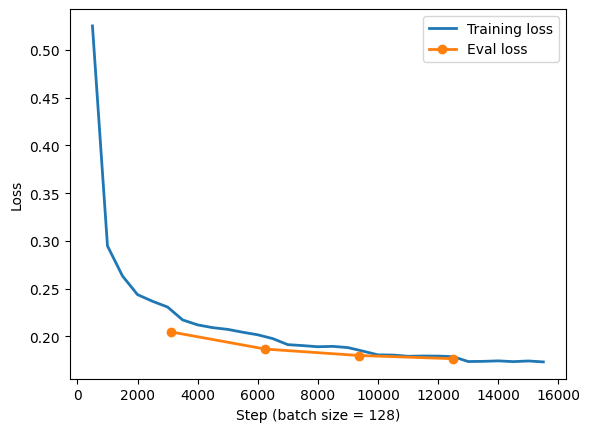
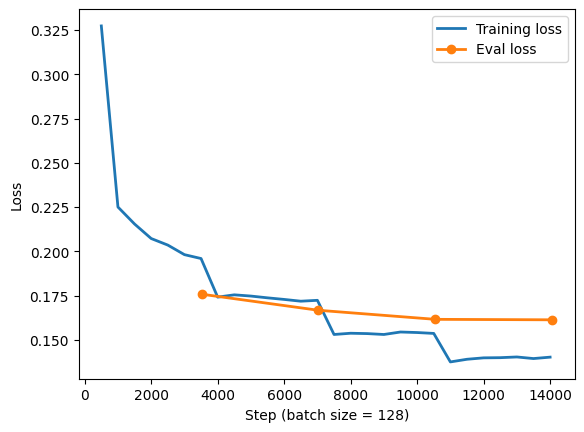
Updated BART fine tune and hyperparameter search

diff --git a/Projects/textsimplification_part3.html b/Projects/textsimplification_part3.html
@@ -114,18 +114,15 @@
 										compared to other languages like English, so the MCTS dataset is one of the best options available.
 									</p>
 
-									<h4>Fine-tuning Chinese BART</h4>
+									<h4>Preprocessing and tokenizing data</h4>
 									<p>Since our BART model is prepared on HuggingFace, we can use the HuggingFace transformers
-										package and framework for our fine-tuning. Let's start by preparing our data. Rather than 
-										input the MCTS data directly into the tokenizer, I want to add tag the sentence pairs with
-										some custom tokens for HSK vocabulary.
+										package and framework for our fine-tuning. Let's start by preparing our data. An important feature
+										to note in Chinese BART is that Chinese text does not contain spaces separating words, but the BART
+										tokenizer is expecting this -- so let's add spaces between words in each sentence with jieba:
 									</p>
 
 									<!--TODO: add discussion of HSK distribution here-->
-									
-									<p>Let's start by importing some base packages, loading our model, tokenizer, and
-										the HSK vocabulary dataset that I processed in Part 2:
-									</p>
+
 									<pre class="language-py"><code class="language-py">
 import numpy as np
 import jieba
@@ -137,37 +134,21 @@ from transformers import BertTokenizer, BartForConditionalGeneration
 tokenizer = BertTokenizer.from_pretrained("fnlp/bart-base-chinese")
 model = BartForConditionalGeneration.from_pretrained("fnlp/bart-base-chinese")
 
-with open("HSK_levels.pickle", 'rb') as handle:
-	HSK_dict = pickle.load(handle)
-									</code></pre>
-
-									<p>
-										Now define our preprocessing function to add HSK tokens for HSK levels 4, 5, 6, and 7-9:
-									</p>
-
-									<pre class="language-py"><code class="language-py">	
-def tokenize_with_HSK(sentence, HSK_dict):
-    split_sentence = jieba.lcut(sentence)
-    HSK_sentence = ""
-    for word in split_sentence:
-        score = HSK_dict.get(word, 0)
-        if score>3:
-            HSK_sentence += f"{word}[{score}]"
-        else:
-            HSK_sentence += f"{word}"
-    return HSK_sentence
-
-tokenizer.add_tokens(["[4]", "[5]", "[6]", "[7]"])
-model.resize_token_embeddings(len(tokenizer))
-
+def pre_tokenize(sentence):
+    return " ".join(jieba.lcut(sentence)) # add spaces to sentence for tokenizer
+	
 def preprocess_data(filename: str, start: int, stop: int):
-    lines_HSK = []
     with open(filename, encoding="utf8") as f:
         lines_orig = f.read().splitlines()
-        for line in lines_orig[start:stop]:
-            lines_HSK.append(tokenize_with_HSK(line, HSK_dict))
-    return lines_HSK
+    return [pre_tokenize(line) for line in lines_orig]
 									</code></pre>
+
+									<p><i>
+										Aside: in a previous version of this pipeline, I also attempted to add HSK tokens for HSK levels
+										4, 5, 6, 7-9 to each corresponding word in the text. The idea behind this is to train BART to substitute
+										or remove higher-level HSK words with simpler words. However, the MCTS pseudo dataset does not contain 
+										enough lexical simplification between the input and target sentences for this method to be effective.
+									</i></p>
 
 									<p>
 										Now we can load the pseudo data <a href="https://arxiv.org/abs/2306.02796" target="_blank">
@@ -180,7 +161,7 @@ def preprocess_data(filename: str, start: int, stop: int):
 									<pre class="language-py"><code class="language-py">
 start = 0
 stop = 500000
-split = 400000
+split = 450000
 
 lines_complex = preprocess_data('zh_selected.ori', start, stop)
 lines_simple = preprocess_data('zh_selected.sim', start, stop)
@@ -197,11 +178,11 @@ ds_eval = Dataset.from_dict(data_dict)
 									</p>
 
 									<pre class="language"><code class="language">
-ds_train['complex'][0]: '75公斤级比赛3个项目[4]的第一名均为中国选手李顺柱获得[4]。'
-(The first place in all three events[4] of the 75 kg competition was won[4] by China's Li Shunzhu.)
+ds_train['complex'][0]: '75 公斤 级 比赛 3 个 项目 的 第一名 均 为 中国 选手 李顺柱 获得 。'
+(The first place in all three events of the 75 kg competition was won by China's Li Shunzhu.)
 
-ds_train['simple'][0]: '中国选手李顺珠在75公斤级三个项目[4]中获得[4]第一名。'
-(China's Li Shunzhu won[4] first place in three events[4] in the 75 kg category.)
+ds_train['simple'][0]: '中国 选手 李顺珠 在 75 公斤 级 三 个 项目 中 获得 第一名。'
+(China's Li Shunzhu won first place in three events in the 75 kg category.)
 									</code></pre>
 
 									<p>Now, tokenize the preprocessed data. Here I use a max_length of 128, with
@@ -223,38 +204,132 @@ def batch_tokenize_data(data):
 tokenized_data_train = ds_train.map(batch_tokenize_data, batched=True)
 tokenized_data_eval = ds_eval.map(batch_tokenize_data, batched=True)
 									</code></pre>
-									
+									<h4>Hyperparameter search using Optuna</h4>
 									<p>
-										Now, set up the trainer and begin model fine-tuning with trainer.train():
+										To fine-tune this BART model, I have to make some decisions about the training parameters
+										like batch size, learning rate, etc. The best way to determine optimal hyperparameters is to
+										use optimized tuners like Optuna, which can automatically search over your defined 
+										hyperparameter space. Let's perform tuning using the search space defined below:
 									</p>
 
 									<pre class="language-py"><code class="language-py">
+# optuna fine-tuning
+import optuna
+import torch
+
+def search_space(trial):
+	# Define hyperparameter search space
+	return {
+		"learning_rate": trial.suggest_float("learning_rate", 1e-5, 5e-4, log=True),
+		"per_device_train_batch_size": trial.suggest_categorical("per_device_train_batch_size", [4, 8, 16]),
+		"num_train_epochs": trial.suggest_int("num_train_epochs", 3, 10),
+		"weight_decay": trial.suggest_float("weight_decay", 1e-5, 1e-2, log=True)
+	}
+
+# Define training arguments
+def model_init():
+	# Function to initialize the model for Trainer
+	from transformers import BartForConditionalGeneration
+	return BartForConditionalGeneration.from_pretrained("fnlp/bart-base-chinese", local_files_only=True)
+
+def compute_metrics(eval_preds):
+	prediction_tokens = eval_preds.predictions
+	prediction_text = [tokenizer.decode(tokens, skip_special_tokens=True) for tokens in prediction_tokens]
+
+	sari_score = sari.compute(
+			predictions=prediction_text, # model output
+			references=[[simple] for simple in tokenized_data_eval.select(range(5000))['simple']], # reference simple sentences
+			sources=tokenized_data_eval.select(range(5000))['complex'] # complex sentence
+		)
+	return {"sari": sari_score["sari"]}
+
+def preprocess_logits_for_metrics(logits, labels):
+		# This is a memory leak workaround to avoid storing too many tensors that are not needed
+		pred_ids = torch.argmax(logits[0], dim=-1)
+		return pred_ids
+
 training_args = TrainingArguments(
-    output_dir="./bart_simplification",
-    evaluation_strategy="epoch",
-    learning_rate=3e-5,
-    per_device_train_batch_size=128,
-    per_device_eval_batch_size=128,
-    eval_accumulation_steps = 1,
-    num_train_epochs=5,
-    weight_decay=0.01,
-    save_total_limit=2,
-    logging_steps=500
+	output_dir = "./bart_hypersearch",
+	eval_strategy = "epoch",
+	per_device_eval_batch_size = 1,
+	eval_accumulation_steps = 1, 
+	logging_dir = "./logs",
+	greater_is_better = True,
 )
 
 trainer = Trainer(
-    model = model,
-    args = training_args,
-    train_dataset = tokenized_data_train,
-    eval_dataset = tokenized_data_eval,
-    tokenizer = tokenizer
-)								
+	model_init=model_init,
+	args=training_args,
+	train_dataset=tokenized_data_train.select(range(15000)),  # Use a subset for quick tuning
+	eval_dataset=tokenized_data_eval.select(range(5000)),  
+	processing_class = tokenizer,
+	compute_metrics = compute_metrics,
+	preprocess_logits_for_metrics=preprocess_logits_for_metrics, # preprocesses before sending to compute_metrics()
+)
+
+# Run Optuna hyperparameter search
+best_trial = trainer.hyperparameter_search(
+	direction="maximize",  # For maximizing performance (adjust as needed)
+	hp_space=search_space,
+	n_trials=10  # Number of trials
+)
+
+print(best_trial)
+									</code></pre>
+
+									<p>
+										The hyperparameter search took an hour or two on an A100 GPU in Google Colab. Here were
+										the results of the best trial:
+									</p>
+
+									<pre class="language-py"><code class="language-py">
+BestRun(run_id='4', 
+		objective=33.830690227020675, 
+		hyperparameters={'learning_rate': 0.00010879820645860841, 
+						'per_device_train_batch_size': 128, 
+						'num_train_epochs': 9, 
+						'weight_decay': 0.001750272177978174}, 
+		run_summary=None)
+									</code></pre>
+
+									<h4>Fine-tuning BART with final parameters</h4>
+									
+									<p>
+										Now, set up the trainer using the final params and begin model fine-tuning with trainer.train():
+									</p>
+
+									<pre class="language-py"><code class="language-py">
+best_params = best_trial.hyperparameters
+training_args = TrainingArguments(
+	output_dir = "./bart_simplification",
+	eval_strategy = "epoch",
+	save_strategy = "epoch",
+	learning_rate = best_params["learning_rate"],
+	per_device_train_batch_size = best_params["per_device_train_batch_size"],
+	num_train_epochs = best_params["num_train_epochs"],
+	weight_decay = best_params["weight_decay"],
+	eval_accumulation_steps = 1,
+	per_device_eval_batch_size = 1,
+	logging_dir = "./logs",
+	logging_steps = 500,
+	greater_is_better = True, # maximize SARI
+)
+
+trainer = Trainer(
+	model = model,
+	args = training_args,
+	train_dataset = tokenized_data_train,
+	eval_dataset = tokenized_data_eval,
+	processing_class = tokenizer,
+	compute_metrics = compute_metrics,
+	preprocess_logits_for_metrics = preprocess_logits_for_metrics,
+)
 
 trainer.train()
 									</code></pre>
 
 									<p>
-										I used Google Colab with a A100 GPU to perform the training step. Let's look at the loss during training:
+										I used the same A100 GPU to perform the training step. Let's look at the loss during training:
 									</p>
 
 									<div class="container">
@@ -263,21 +338,21 @@ trainer.train()
 									</div>
 
 									<p>
-										Five epochs looks like a good stopping point, as the validation loss is leveling off and I 
-										want to avoid overfitting. Now that we have a trained model, let's try making a prediction on the same
-										example I showed earlier:
+										I did not train the full 9 epochs for two reasons: validation loss leveling out (avoid overfitting),
+										and high remaining runtime on the A100 GPU. The total training time was 5.5 hours.
+										Regardless, with the final fine-tuned model, we can make a sample prediction on our dataset:
 									</p>
 
 									<pre class="language-py"><code class="language-py">
 from transformers import Text2TextGenerationPipeline
 text2text_generator = Text2TextGenerationPipeline(model, tokenizer)
-output = text2text_generator(sentence, max_length=128, do_sample=False)[0]['generated_text'].replace(" ","")
+output = text2text_generator(sentence, max_length=128, do_sample=False)[0]['generated_text'].replace(" ","") # remove spaces for detokenization
 									</code></pre>
 									<pre class="language"><code class="language">
 Example ('complex'): '75公斤级比赛3个项目的第一名均为中国选手李顺柱获得。'
 (The first place in all three events of the 75 kg competition was won by China's Li Shunzhu.)
 
-Example ('simple'): '中国选手李顺珠在75公斤级三个项目[4]中获得[4]第一名。'
+Example ('simple'): '中国选手李顺珠在75公斤级三个项目中获得第一名。'
 (China's Li Shunzhu won first place in three events in the 75 kg category.)	
 
 Fine-tuned BART output: '75公斤级三个项目的第一名均由中国选手李顺柱获得。'
